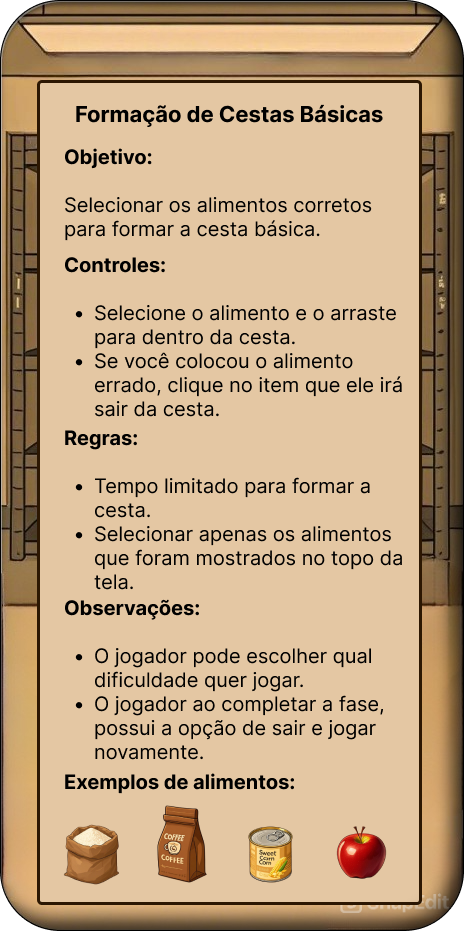
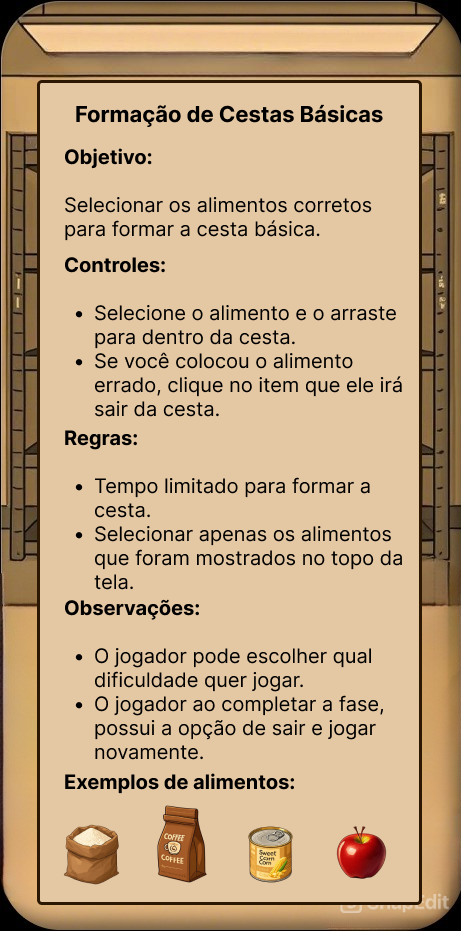
updatet

diff --git a/lib/selec_food_game.dart b/lib/selec_food_game.dart
@@ -176,7 +176,7 @@ class _GameSelectFoodScreenState extends State<GameSelectFoodScreen> {
           Container(
             decoration: const BoxDecoration(
               image: DecorationImage(
-                image: AssetImage('assets/images/jogoComidas/Tela_fundo_jogo_Alimentos.png'),
+                image: AssetImage('assets/images/jogoComidas/Jogo 1 - Quadros de Alimento.png'),
                 fit: BoxFit.cover,
               ),
             ),

diff --git a/lib/main.dart b/lib/main.dart
@@ -785,7 +785,7 @@ class _TelaJogo1State extends State<TelaJogo1> {
             decoration: const BoxDecoration(
               image: DecorationImage(
                 image: AssetImage(
-                  'assets/images/jogoComidas/fundo_jogoComida.png',
+                  'assets/images/jogoComidas/Jogo 1.png',
                 ),
                 fit: BoxFit.cover,
               ),
